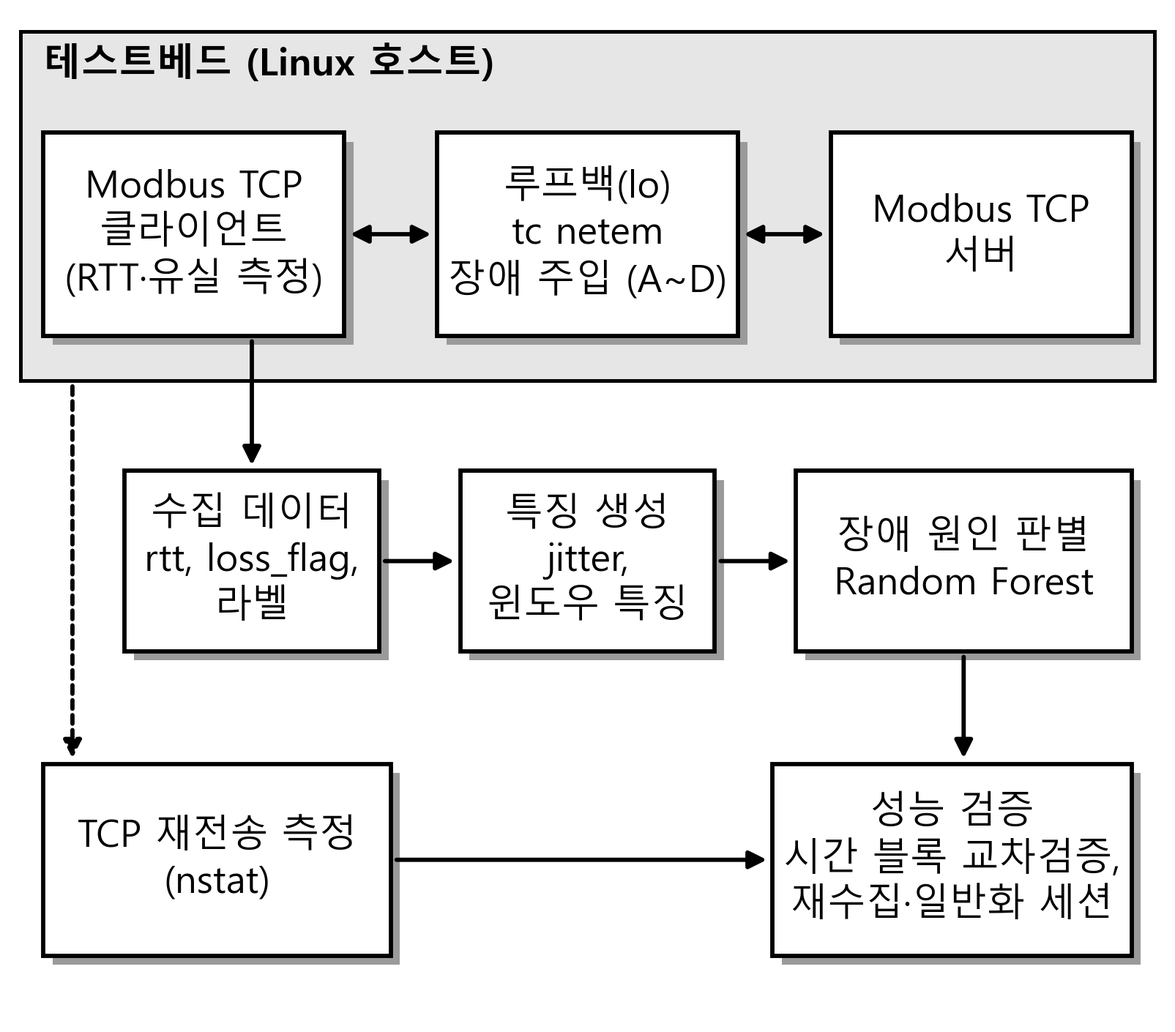
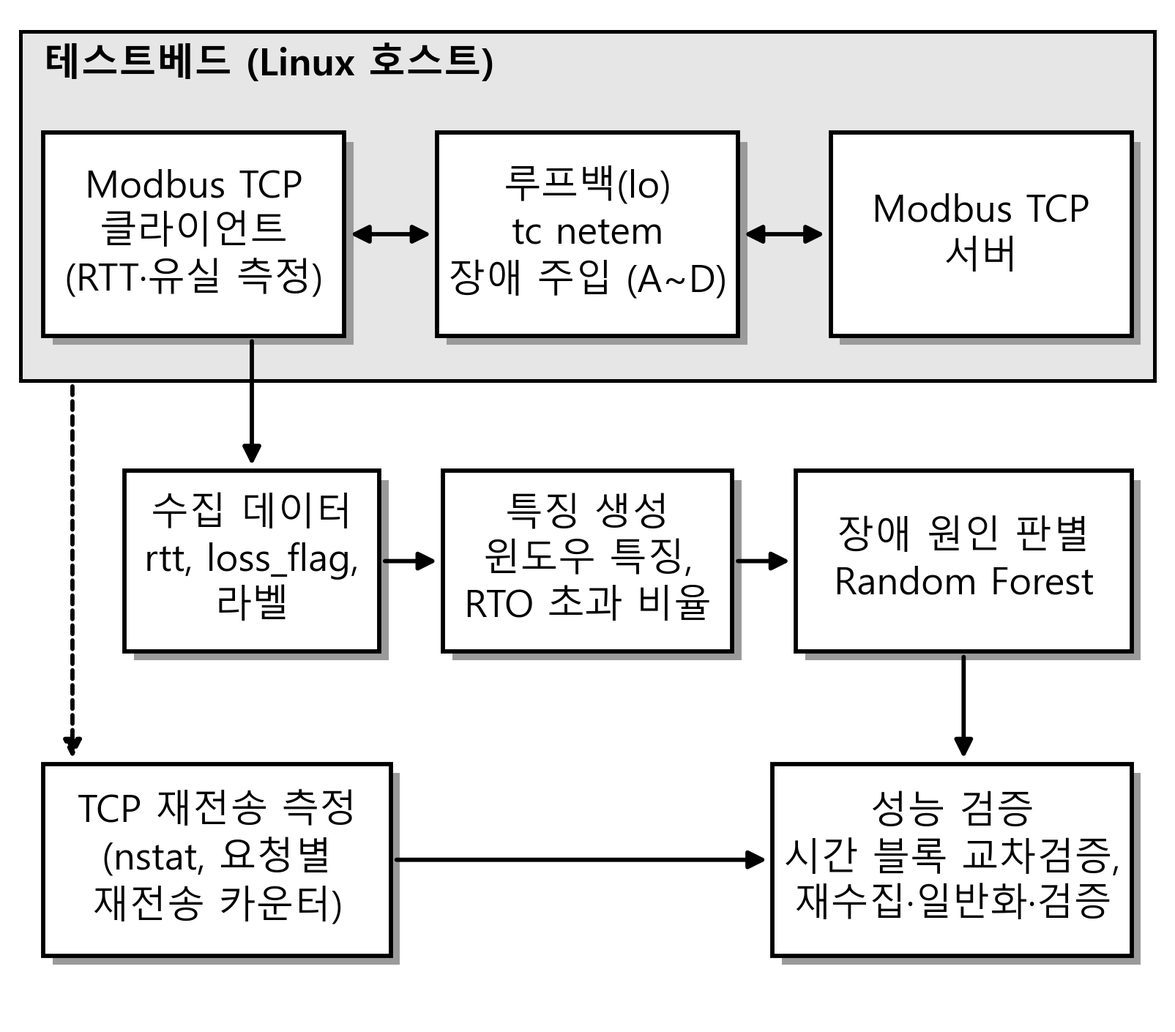
Recompute detection delay under the feature-comparison protocol; update figure 1 and paper draft
- eval_detection_delay.py: detection delay on the re-collection and verification
  sessions and per-segment delay recall on the generalization session, using RF
  trained on the full original data (same protocol as the feature-set table)
- make_figures.py: figure 1 now shows RTO-exceed features and per-request
  retransmission counters
- docs: consolidated paper draft with all results, plus table/figure plan and
  number-to-evidence map in the advisor-feedback document

Changed region(s): [[0.3427, 0.4369, 0.6542, 0.6553], [0.0623, 0.7489, 0.3115, 0.905], [0.6854, 0.8426, 0.9657, 0.905]]

diff --git a/backend/eval_detection_delay.py b/backend/eval_detection_delay.py
@@ -1,0 +1,55 @@
+"""
+표 2와 같은 기준(원 데이터 전체로 학습한 RF, 특징 세트만 변경)으로 본문 숫자 두 가지를 다시 계산한다.
+1) 탐지 지연: 재수집·검증 세션의 장애 구간(B/C/D)마다 구간 시작부터 처음 정답을 예측한 시점까지의 시간
+2) 일반화 세션 지연(B) 구간별 실측 RTT 중앙값과 지연 재현율 (기본 특징 RF)
+출력: results_tcp_features/detection_delay.csv, detection_delay_summary.csv, generalization_B_segments.csv
+"""
+import os
+import pandas as pd
+from eval_tcp_features import BASE_DIR, NEW_DIR, OUT_DIR, FEATURE_SETS, add_features, load_train, rf
+
+MODE = "karn"
+NAMES = {1: "B", 2: "C", 3: "D"}
+SESSIONS = {
+    "eval_same_params": os.path.join(NEW_DIR, "eval_same_params.csv"),
+    "verify_retrans": os.path.join(BASE_DIR, "raw_dataset_20261009", "verify_retrans.csv"),
+}
+
+train = load_train(MODE)
+models = {fs: rf().fit(train[FEATURE_SETS[fs]], train["label"]) for fs in ["base", "base+tcp"]}
+
+rows = []
+for s_name, path in SESSIONS.items():
+    d = add_features(pd.read_csv(path), MODE)
+    d["ts"] = pd.to_datetime(d["timestamp"])
+    d["segment"] = (d["label"] != d["label"].shift()).cumsum()
+    for fs, m in models.items():
+        d["pred"] = m.predict(d[FEATURE_SETS[fs]])
+        for _, seg in d.groupby("segment"):
+            lab = int(seg["label"].iloc[0])
+            if lab == 0:
+                continue
+            hit = seg.index[seg["pred"] == lab]
+            rows.append({"session": s_name, "features": fs, "class": NAMES[lab], "start": seg["timestamp"].iloc[0],
+                         "detected": len(hit) > 0,
+                         "seconds_to_detect": (d.loc[hit[0], "ts"] - seg["ts"].iloc[0]).total_seconds() if len(hit) else None})
+det = pd.DataFrame(rows)
+summary = det.groupby(["session", "features", "class"]).agg(
+    segments=("detected", "size"), detected=("detected", "sum"),
+    median_seconds=("seconds_to_detect", "median"), max_seconds=("seconds_to_detect", "max")).reset_index()
+
+# 일반화 세션: 지연(B) 구간별 (기본 특징 RF)
+g = add_features(pd.read_csv(os.path.join(NEW_DIR, "eval_generalization.csv")), MODE)
+g["segment"] = (g["label"] != g["label"].shift()).cumsum()
+g["pred"] = models["base"].predict(g[FEATURE_SETS["base"]])
+b_rows = [{"start": seg["timestamp"].iloc[0], "n": len(seg), "rtt_median_ms": round(seg["rtt"].median(), 2),
+           "rf_recall_B": round((seg["pred"] == 1).mean(), 4)}
+          for _, seg in g[g["label"] == 1].groupby("segment")]
+gen_b = pd.DataFrame(b_rows)
+
+det.to_csv(os.path.join(OUT_DIR, "detection_delay.csv"), index=False)
+summary.to_csv(os.path.join(OUT_DIR, "detection_delay_summary.csv"), index=False)
+gen_b.to_csv(os.path.join(OUT_DIR, "generalization_B_segments.csv"), index=False)
+pd.set_option("display.width", 200)
+print(summary.to_string(index=False)); print()
+print(gen_b.to_string(index=False))

diff --git a/backend/make_figures.py b/backend/make_figures.py
@@ -38,11 +38,11 @@ def system_diagram():
     box(71, 61, 26, 18, "Modbus TCP\n서버")
     arrow((29.5, 70), (36.5, 70), both=True); arrow((63.5, 70), (70.5, 70), both=True)
     box(10, 33, 22, 16, "수집 데이터\nrtt, loss_flag,\n라벨")
-    box(39, 33, 22, 16, "특징 생성\njitter,\n윈도우 특징")
+    box(37.5, 33, 25, 16, "특징 생성\n윈도우 특징,\nRTO 초과 비율")
     box(68, 33, 29, 16, "장애 원인 판별\nRandom Forest")
-    arrow((21, 60.5), (21, 49.5)); arrow((32.5, 41), (38.5, 41)); arrow((61.5, 41), (67.5, 41))
-    box(3, 6, 30, 17, "TCP 재전송 측정\n(nstat)")
-    box(66, 6, 31, 17, "성능 검증\n시간 블록 교차검증,\n재수집·일반화 세션")
+    arrow((21, 60.5), (21, 49.5)); arrow((32.5, 41), (37, 41)); arrow((63, 41), (67.5, 41))
+    box(3, 6, 30, 17, "TCP 재전송 측정\n(nstat, 요청별\n재전송 카운터)")
+    box(66, 6, 31, 17, "성능 검증\n시간 블록 교차검증,\n재수집·일반화·검증")
     arrow((5.5, 56.5), (5.5, 23.5), dash=True); arrow((82.5, 32.5), (82.5, 23.5)); arrow((33.5, 14.5), (65.5, 14.5))
     fig.savefig(os.path.join(OUT_DIR, "fig_system_bw.png"), bbox_inches="tight", pad_inches=0.02)
     plt.close(fig)

diff --git a/backend/docs/논문_통합초안.md b/backend/docs/논문_통합초안.md
@@ -1,0 +1,106 @@
+# 논문 통합 초안 (2026-10-09 기준, 모든 결과 반영)
+
+> 이 문서는 한글 원고를 고칠 때 보는 **참고용 초안**이다. 문장은 본인 말투로 다시 쓰고, 숫자와 표는 그대로 쓴다.
+> 숫자의 근거 파일은 `교수님 피드백_최종 수정본.md` 10번 표를 본다.
+
+---
+
+# 경량 L4 지표 기반 Modbus TCP 제어망 장애 원인 판별의 한계 분석
+
+전재우\*, 김구민\*, 김승현\*
+\*국립순천대학교 인공지능공학부
+e-mail: (교신저자 이메일)
+
+**Analysis of the Limitations of Fault Cause Identification in Modbus TCP Control Networks Using Lightweight L4 Metrics**
+
+Jae-Woo Jeon\*, (김구민 영문)\*, Seung-Hyun Kim\*
+\*Dept. of Artificial Intelligence Engineering, Sunchon National University
+
+## 요 약
+본 논문은 패킷 내용을 해석하지 않고 측정할 수 있는 RTT, 손실 여부, 지터의 경량 L4 지표만으로 Modbus TCP 제어망의 장애 원인을 어디까지 판별할 수 있는지 분석하였다. tc netem 테스트베드에서 정상 상태와 지연, 유실, 복합의 세 가지 장애 상황을 재현하여 22,873건의 데이터를 수집하고 Random Forest 모델을 학습한 결과, 지연 장애는 재현율 0.98로 판별되었으며 30일 뒤 재수집한 데이터에서도 Macro F1 0.746으로 성능이 유지되었다. 유실 장애는 TCP 재전송으로 인해 타임아웃이 아닌 지연으로 관측되어 판별이 어려웠으나, TCP의 재전송 타이머(RTO) 계산 방식을 특징으로 도입하여 유실 재현율을 0.51에서 0.93으로 향상하였고, 실측한 재전송과의 대조에서 RTO 초과 판정의 정밀도는 94%였다. 학습하지 않은 장애 강도에서는 Macro F1이 0.533으로 낮아져 일반화에 한계가 있었다.
+
+## 1. 서론
+산업 제어 시스템은 공정을 실시간으로 제어하므로 통신 지연이나 패킷 유실이 설비 오작동과 안전사고로 이어질 수 있으며, 이에 따라 제어망에는 일반 정보망보다 엄격한 시간 성능이 요구된다[1]. Modbus TCP는 Modbus 메시지를 TCP/IP 위에서 요청-응답 방식으로 주고받는 산업용 프로토콜이다[2]. 제어망의 장애를 탐지하는 방법으로 패킷 내용을 분석하는 심층 패킷 분석(DPI)이 있으나, 이 방식은 프로토콜마다 패킷 구조를 해석해야 한다. 또한 장애 여부만 판단하는 이진 분류 방식은 장애가 발생했다는 사실만 알려 줄 뿐 원인을 구분하지 못한다. 지연과 유실은 대응 방법이 다르므로, 장애의 발생뿐 아니라 그 원인을 판별할 수 있어야 한다.
+
+따라서 본 논문은 패킷 내용 없이 모든 TCP 통신에서 측정할 수 있는 RTT, 손실 여부, 지터에 주목하여, 이 지표만으로 장애 원인을 어디까지 판별할 수 있는지와 그 한계가 어디에서 비롯되는지를 분석하였다. 이를 위해 tc netem 기반의 장애 재현 테스트베드를 구축하고, 시간 블록 교차검증과 세 차례의 독립 세션으로 판별 성능의 재현성과 일반화 범위를 평가하였다. 또한 유실 장애가 지연으로 관측되는 원인을 TCP 재전송에서 찾고, TCP의 재전송 타이머 계산 방식을 판별 특징으로 도입한 뒤 실제 재전송과 요청 단위로 대조하여 검증하였다.
+
+## 2. 장애 판별 시스템 구성
+그림 1은 본 논문의 장애 판별 시스템 구성을 나타낸다. 테스트베드는 한 Linux 호스트에서 Modbus TCP 클라이언트와 서버를 실행하고, 둘 사이의 통신이 지나는 루프백(lo) 인터페이스에 tc netem[3]으로 장애를 주입하는 구조이다. 클라이언트가 수집한 데이터는 특징 생성과 장애 원인 판별을 거쳐 성능 검증에 사용되며, TCP 재전송 횟수는 nstat과 요청별 재전송 카운터로 별도 측정하여 판별 결과의 원인 분석과 검증에 활용하였다.
+
+**[그림 1]** `figures/fig_system_bw.png`
+그림 1. 장애 판별 시스템 구성도
+
+클라이언트는 쓰기와 읽기 요청을 함께 보내고, 두 응답이 모두 도착할 때까지의 시간을 RTT로 기록한 뒤 0.1초 후 다음 요청을 보낸다. 1초 안에 응답이 없으면 유실(loss_flag=1)로 기록하고 RTT는 5000ms로 둔다. lo 인터페이스에서는 지연이 요청과 응답에 각각 적용되어 실측 RTT가 설정값의 2배 이상이 된다(설정 120ms → 실측 약 290ms). 따라서 netem 설정값 대신 매 요청의 실측 RTT를 판별에 사용하였다.
+
+## 3. 실험 파라미터 설정
+표 1은 장애 시나리오별 netem 설정과 수집 건수를 나타낸다. 시나리오는 A→B→A→C→A→D 순서로 순환하였으며, 복합 장애(D)는 정상 5초 후 지연 800ms·손실 40%(3초), 손실 100%(7초), 지연 300ms·손실 5%(5초)를 차례로 적용하였다. 수집 데이터는 총 22,873건이며 정상 상태가 71.5%를 차지한다.
+
+**표 1. 장애 시나리오와 수집 건수 (A·B·C 각 30초, D 20초)**
+| 구분 | netem 설정 | 건수 |
+|---|---|---|
+| A 정상 | 지연 1ms | 16,345 |
+| B 지연 | 지연 120±40ms | 1,759 |
+| C 유실 | GE 손실 모델 (p=5%, r=50%) | 3,521 |
+| D 복합 | 4단계 (본문 참조) | 1,248 |
+
+유실 장애에는 Gilbert-Elliott(GE) 손실 모델[4]을 사용하였다. 실제 네트워크의 패킷 손실은 독립적으로 발생하기보다 연속하여 몰리는 버스트 형태로 나타나므로, 정상 상태와 손실 상태를 오가는 2상태 모델로 이를 재현하였다. p는 정상 상태에서 손실 상태로, r은 손실 상태에서 정상 상태로 넘어갈 확률이며, 손실 상태에서는 패킷의 90%가 버려지고 정상 상태에서는 버려지지 않도록 설정하였다. 이 설정에서 평균 버스트 길이는 1/r = 2패킷, 이론상 평균 손실률은 약 8.2%이다.
+
+기본 특징은 RTT, 손실 여부(loss_flag), 연속한 두 RTT 차의 절댓값인 지터의 세 가지이다. 처리량은 Modbus 패킷의 크기가 작고 일정하여 변별력이 낮으므로 제외하였다. 이에 더해 두 가지 특징 세트를 정의하였다. 윈도우 특징은 최근 15개 샘플의 손실률과 RTT 표준편차이다. TCP 방식 특징은 TCP의 재전송 타이머 계산 방식[5]을 따른다. 요청마다 RTT의 평활 평균(SRTT)과 변동폭(RTTVAR)을 갱신하고 재전송 기준 시간을 RTO = max(200ms, SRTT + 4·RTTVAR)로 계산하되, 타임아웃과 직전 RTO를 갑자기 초과한 응답은 재전송이 섞인 샘플로 보고 SRTT 계산에서 제외하였다(Karn 알고리즘)[5]. 최종적으로 SRTT, RTTVAR, 최근 15개 응답 중 RTO를 초과한 비율을 특징으로 사용하였다.
+
+특징과 라벨이 완전히 같은 중복 879건을 제거한 21,994건을 8:2로 나누어 Logistic Regression(LR), Decision Tree(DT), Random Forest(RF), LightGBM을 비교한 결과, 클래스 불균형의 영향을 덜 받는 Macro F1에서 RF가 0.629(정확도 74.24%)로 가장 높아 판별 모델로 선정하였다. 이후 모든 비교는 같은 RF에서 특징 세트만 바꾸어 수행하였다.
+
+## 4. 성능 분석 및 시험 결과
+판별 성능은 네 가지 방법으로 평가하였다. 먼저 인접한 시점의 샘플이 학습과 평가에 함께 들어가 성능이 부풀려지는 것을 막기 위해, 각 시나리오 데이터를 시간 순서대로 5개 블록으로 나누어 교차검증하였다. 다음으로 원 데이터 전체로 학습한 모델을 다시 학습하지 않고 세 개의 독립 세션에 적용하였다. 재수집 세션(12,233건)은 30일 뒤 같은 설정으로, 일반화 세션(11,346건)은 B의 지연을 60ms와 200ms로, C의 p를 2%와 10%로 바꾸고 D의 강도를 변경하여 수집하였다. 검증 세션(10,988건)은 같은 설정에서 요청마다 운영체제의 TCP 재전송 카운터를 함께 기록하였다.
+
+**표 2. 특징 세트별 Macro F1 (괄호: 유실 재현율, 모두 RF)**
+| 검증 | 기본 | +윈도우 | +TCP 방식 |
+|---|---|---|---|
+| 시간 블록 5-fold | 0.683 (0.51) | 0.833 (0.90) | 0.748 (0.93) |
+| 재수집 세션 | 0.746 (0.72) | 0.747 (0.87) | 0.711 (0.92) |
+| 일반화 세션 | 0.533 (0.43) | 0.625 (0.76) | 0.549 (0.83) |
+| 검증 세션 | 0.692 (0.55) | 0.730 (0.80) | 0.694 (0.81) |
+
+표 2는 같은 RF에서 특징 세트만 바꾼 결과이다. 기본 특징만으로도 지연 장애의 재현율은 시간 블록 검증과 재수집 세션에서 0.98 이상이었고, 재수집 세션의 장애 구간 33개는 모두 탐지되었으며 구간 시작부터 탐지까지의 시간은 중앙값 1초 이내였다. 반면 유실 재현율은 0.43~0.72에 그쳤다. TCP 방식 특징은 네 가지 검증 모두에서 유실 재현율을 크게 높였으며(예: 시간 블록 0.51 → 0.93, 일반화 세션 0.43 → 0.83), 전체 Macro F1은 윈도우 특징이 가장 높았다.
+
+유실 조건에서 Macro F1이 낮은 원인은 TCP 재전송에 있다. 정상과 유실 조건을 각각 60초간 측정한 결과, 유실 조건의 TCP 재전송 비율은 송신 세그먼트의 5.67%로 정상(0.12%)보다 크게 높았으나 Modbus 타임아웃은 2건뿐이었다. 그림 2와 같이 유실 조건의 지연 응답은 대부분 200ms 이상에 분포하였다. TCP는 손실된 세그먼트를 재전송 대기시간이 지난 뒤 다시 보내며[5], Linux는 이 대기시간의 최솟값으로 200ms를 사용한다. 즉 손실된 패킷은 재전송으로 복구되어 응용 계층에서는 타임아웃이 아닌 지연으로 관측되며, 이로 인해 기본 특징에서 손실 여부 특징의 중요도는 0.008에 그쳤다.
+
+**[그림 2]** `figures/fig_retrans_rtt_bw.png`
+그림 2. 정상(A)과 유실(C) 조건의 요청별 RTT (60초, 로그 스케일, ×: 타임아웃)
+
+**표 3. 검증 세션의 장애 유형별 재전송과 RTO 초과 판정**
+| 항목 | 정상(A) | 지연(B) | 유실(C) |
+|---|---|---|---|
+| 재전송이 발생한 요청 비율 | 4.3% | 25.1% | 19.6% |
+| RTO 초과 판정 비율 | 0.2% | 3.6% | 8.1% |
+| RTO 초과 중 실제 재전송 (정밀도) | 100% | 60% | 100% |
+| 재전송 중 RTO 초과로 탐지 (탐지율) | 4.0% | 8.7% | 42.9% |
+
+표 3은 검증 세션에서 RTO 초과 판정을 실제 재전송과 요청 단위로 대조한 결과이다. RTO를 초과한 응답 202건 중 190건(94%)에서 실제 재전송이 확인되었고, 유실 조건에서는 159건 모두 일치하였다. 다만 유실 조건의 재전송 중 RTO 초과로 탐지된 비율은 43%였는데, 이는 Linux TCP가 RTO 이전에 손실을 복구하는 경우 응답 지연이 RTO 기준에 미치지 않기 때문이다. 또한 지연 조건에서도 패킷 순서 변경으로 요청의 25%에서 재전송이 발생하였으므로, 재전송 정보는 단독이 아니라 RTT 수준과 함께 사용할 때 유실 판별에 유효하다.
+
+복합 장애의 낮은 재현율은 시나리오 구성에서 비롯되었다. D 샘플의 69.6%는 정상 설정으로 둔 첫 5초 구간에서 수집되었으며, 이 구간의 RTT 중앙값(15.6ms)은 정상(15.9ms)과 같은 수준이었고 손실률(0.3%)도 정상(0.5%)과 비슷하였다. 이 구간을 제외하면 시간 블록 검증에서 기본 특징 RF의 Macro F1은 0.683에서 0.808로, 복합 재현율은 0.28에서 0.73으로 향상되었다.
+
+일반화 세션에서는 학습하지 않은 지연 강도에서 성능이 낮아졌다. 학습 조건(120ms, 실측 약 290ms)의 지연 재현율은 0.98이었으나, 60ms(실측 약 155ms)에서는 0.14~0.21, 200ms(실측 약 443~495ms)에서는 0.57~0.83이었다. 지연이 학습 조건보다 약한 경우뿐 아니라 강한 경우에도 재현율이 떨어졌으므로, 모델은 학습 시 관측한 RTT 범위를 벗어난 지연을 일관되게 판별하지 못하였다.
+
+## 5. 결론
+본 논문은 패킷 내용을 해석하지 않는 경량 L4 지표만으로 Modbus TCP 제어망의 장애 원인을 판별할 수 있는 범위를 실측으로 분석하였다. 지연 장애는 재현율 0.98로 판별되었고 30일 뒤 재수집한 데이터에서도 성능이 유지되었으며, 장애 구간을 모두 1초 안팎에 탐지하였다. 유실 장애가 TCP 재전송으로 인해 지연으로 관측되는 문제는 TCP의 재전송 타이머 계산 방식을 특징으로 도입하여 개선하였으며(유실 재현율 0.51 → 0.93), 실제 재전송과의 요청 단위 대조로 그 타당성을 확인하였다(정밀도 94%). 다만 학습하지 않은 장애 강도에서는 판별 성능이 낮아졌고, RTO 이전에 복구되는 재전송은 탐지하지 못하는 한계가 있었다. 향후에는 여러 단계의 장애 강도로 학습 데이터를 확장하고, RTO 이전에 복구되는 재전송까지 포착하도록 판정 기준을 개선하며, 실제 산업망 트래픽에서 검증할 예정이다.
+
+## 참고문헌
+[1] K. Stouffer 외, "Guide to Operational Technology (OT) Security," NIST Special Publication 800-82 Rev. 3, 2023. (저자 목록은 원문 표지에서 확인)
+[2] Modbus Organization, "MODBUS Messaging on TCP/IP Implementation Guide V1.0b," 2006.
+[3] S. Hemminger, "Network Emulation with NetEm," Proc. Linux Conference Australia, 2005.
+[4] E. N. Gilbert, "Capacity of a burst-noise channel," Bell System Technical Journal, vol. 39, no. 5, pp. 1253–1265, 1960.
+[5] V. Paxson, M. Allman, J. Chu, M. Sargent, "Computing TCP's Retransmission Timer," RFC 6298, IETF, 2011.
+
+---
+
+## 이전 초안·원고에서 바뀐 숫자 (한글 원고에서 찾아서 고칠 것)
+| 위치 | 기존 | 새 값 | 이유 |
+|---|---|---|---|
+| 요약·4장 재수집 Macro F1 | 0.673 | 0.746 | 모든 모델을 같은 기준(원 데이터 전체로 학습)으로 다시 계산 |
+| 요약·4장 일반화 Macro F1 | 0.453 | 0.533 | 위와 같음 |
+| 윈도우 특징 개선 | 0.582 (DT+윈도우) | 0.625 (RF+윈도우) | 같은 RF끼리 비교 |
+| 지연 60ms 재현율 | 0.13~0.21 | 0.14~0.21 | 같은 기준으로 다시 계산 |
+| 지연 200ms 재현율 | 0.43~0.63 | 0.57~0.83 | 같은 기준으로 다시 계산 |
+| 탐지 지연 (33개 구간, 중앙값 1초 이내) | 변화 없음 | 변화 없음 | 같은 기준으로 다시 계산해도 같음 |
+| 표 3 (60초 측정) | 교체 | 검증 세션 대조 표 | 60초 측정의 nstat 숫자는 본문 문장으로 남김 |
+| 표 4 (지연 설정별 RTT) | 삭제 | 본문 한 문장 | 분량 |

diff --git a/backend/docs/교수님 피드백_최종 수정본.md b/backend/docs/교수님 피드백_최종 수정본.md
@@ -289,7 +289,76 @@ bash network/master_collector.sh
 
 **분량:** 내용이 늘어 2쪽은 넘는다. 3쪽을 목표로 하고, 넘치면 표 4(지연 설정별 RTT)를 빼고 본문 한 문장으로 대체한다.
 
-## 8. 회의에서 정할 것
+## 8. 저장소 반영 (커밋 e58011c)
+
+### 기존 데이터와 섞이지 않는지 확인한 결과
+| 확인 항목 | 결과 |
+|---|---|
+| 기존 데이터 폴더(`raw_dataset_20260904`, `raw_dataset_20261004`) | 변경 없음 |
+| 기존 결과 폴더(`results_20261004`) | 변경 없음 |
+| 기존 TCP 분석 결과(`feature_comparison.csv` 등) | `eval_tcp_features.py`를 고친 뒤 다시 돌려서 바이트 단위까지 동일함을 확인 |
+| 새 데이터 위치 | 새 폴더 `raw_dataset_20261009/`에만 저장 (수집 조건을 적은 `README.md` 포함) |
+| 새 결과 위치 | 새 파일 `results_tcp_features/verify_*.csv` 3개에만 저장 |
+| 대시보드용 `data/` 폴더 | 깃에 올라가지 않음(`.gitignore`) |
+
+## 9. 논문에 들어갈 표와 그림 (최종 구성)
+
+| 번호 | 내용 | 위치 | 파일·근거 |
+|---|---|---|---|
+| 그림 1 | 시스템 구성도 | 2장 | `figures/fig_system_bw.png` |
+| 표 1 | 시나리오와 수집 건수 | 3장 | 원 데이터 |
+| 표 2 | 특징 세트별 성능 (4가지 검증) | 4장 | `results_tcp_features/feature_comparison.csv`, `verify_model_performance.csv` |
+| 그림 2 | 정상·유실 조건의 요청별 RTT | 4장 | `figures/fig_retrans_rtt_bw.png` |
+| 표 3 | 재전송 실측 대조 (새로 만듦) | 4장 | `results_tcp_features/verify_summary.csv`, `verify_rto_vs_retrans.csv` |
+
+- 예전 표 3(60초 측정)은 새 표 3으로 **교체**한다. 60초 측정의 nstat 숫자(0.12% vs 5.67%)는 본문 한 문장으로 남긴다.
+- 표 4(지연 설정별 RTT)는 **빼고** 본문 한 문장으로 대신한다(분량).
+
+### 표 2. 특징 세트별 Macro F1 (괄호: 유실 재현율, 모두 RF)
+| 검증 | 기본 | +윈도우 | +TCP 방식 |
+|---|---|---|---|
+| 시간 블록 5-fold | 0.683 (0.51) | 0.833 (0.90) | 0.748 (0.93) |
+| 재수집 세션 | 0.746 (0.72) | 0.747 (0.87) | 0.711 (0.92) |
+| 일반화 세션 | 0.533 (0.43) | 0.625 (0.76) | 0.549 (0.83) |
+| 검증 세션 | 0.692 (0.55) | 0.730 (0.80) | 0.694 (0.81) |
+
+본문 설명: 표 2는 같은 RF에서 특징만 바꾼 결과이다. TCP 방식 특징은 네 가지 검증 모두에서 유실 재현율을 크게 높였으며(예: 시간 블록 0.51 → 0.93), 전체 Macro F1은 윈도우 특징이 가장 높았다.
+
+### 표 3. 검증 세션의 장애 유형별 재전송과 RTO 초과 판정
+| 항목 | 정상(A) | 지연(B) | 유실(C) |
+|---|---|---|---|
+| 재전송이 발생한 요청 비율 | 4.3% | 25.1% | 19.6% |
+| RTO 초과 판정 비율 | 0.2% | 3.6% | 8.1% |
+| RTO 초과 중 실제 재전송 (정밀도) | 100% | 60% | 100% |
+| 재전송 중 RTO 초과로 탐지 (탐지율) | 4.0% | 8.7% | 42.9% |
+
+본문 설명: 표 3은 요청마다 운영체제의 재전송 카운터를 함께 기록한 검증 세션의 대조 결과이다. 유실 조건에서 RTO 초과로 판정한 응답은 모두 실제 재전송이었다(정밀도 100%). 다만 Linux TCP가 RTO 이전에 복구한 재전송은 응답 지연이 작아 43%만 탐지되었다. 또한 지연 조건에서도 패킷 순서 변경으로 요청의 25%에서 재전송이 발생하였으므로, 재전송 정보는 RTT 수준과 함께 해석해야 한다.
+
+### 표·그림 만드는 법 (한글)
+- **표:** 학회 양식 파일의 표 1을 복사해서 행·열만 늘리고 내용을 바꾼다. 테두리와 글꼴이 그대로 따라온다.
+  - 표 2는 5행 × 4열, 표 3은 5행 × 4열
+  - 캡션은 **표 위에** `표 n. 제목`
+  - 숫자는 가운데 정렬, 항목 이름은 왼쪽 정렬
+  - 2단 편집의 한 단에 들어가는 크기. 좁으면 "시간 블록 5-fold"를 "시간 블록"으로 줄인다.
+- **그림:** 입력 → 그림으로 png를 넣고 너비를 단 폭(약 8cm)에 맞춘다.
+  - 크기는 줄이기만 하고 늘리지 않는다(해상도 저하).
+  - 캡션은 **그림 아래에** `그림 n. 제목`
+  - 그림 2 캡션: `그림 2. 정상(A)과 유실(C) 조건의 요청별 RTT (60초, 로그 스케일, ×: 타임아웃)`
+
+## 10. 근거 자료 관리 (논문 숫자 → 근거 파일)
+교수님이나 심사위원이 숫자의 출처를 물으면 바로 보여 줄 수 있도록 연결해 둔다. 명령은 모두 `backend/` 안에서 실행한다.
+
+| 논문 숫자 | 근거 파일 | 다시 만드는 명령 |
+|---|---|---|
+| 표 1, 22,873건 | `raw_dataset_20260904/` | — |
+| 표 2 위 3줄 | `results_tcp_features/feature_comparison.csv` (`karn` 행) | `python eval_tcp_features.py` |
+| 표 2 검증 세션 줄 | `results_tcp_features/verify_model_performance.csv` | `python eval_verify_retrans.py` |
+| 표 3 | `results_tcp_features/verify_summary.csv`, `verify_rto_vs_retrans.csv` | `python eval_verify_retrans.py` |
+| 그림 1, 2 | `figures/*_bw.png` | `python make_figures.py` |
+| nstat 0.12% vs 5.67% | `raw_dataset_20261004/README.md` | — |
+| 복합 첫 5초 69.6%, 0.808 | `results_20261004/d_first5s.csv` | `python analyze_followup.py` |
+
+## 11. 회의에서 정할 것
 - [ ] 제출 마감일 확인
 - [x] 정식 분석 (완료, 5번)
 - [x] 실측 검증 수집 (김구민, 완료) → 결과 7번
